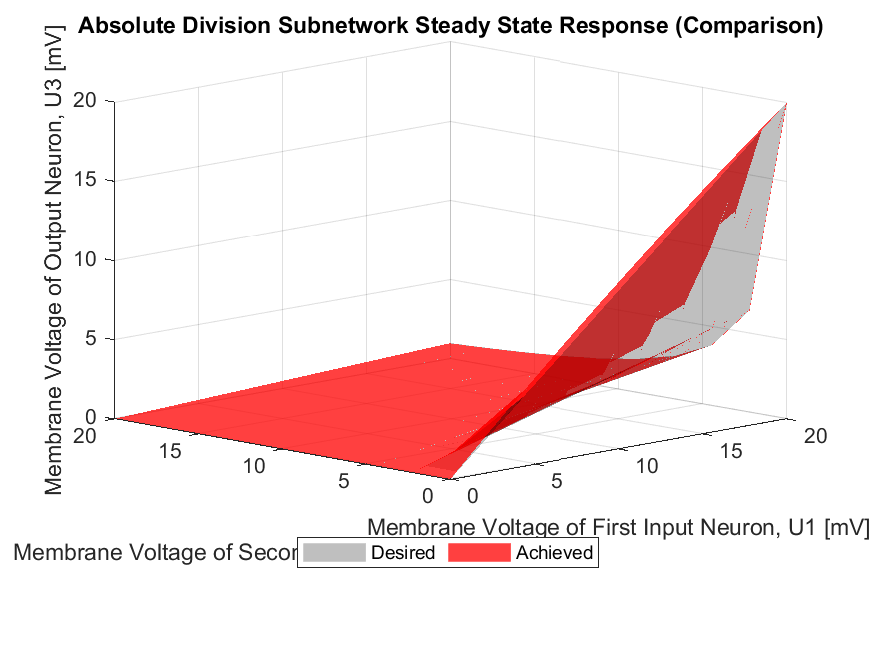
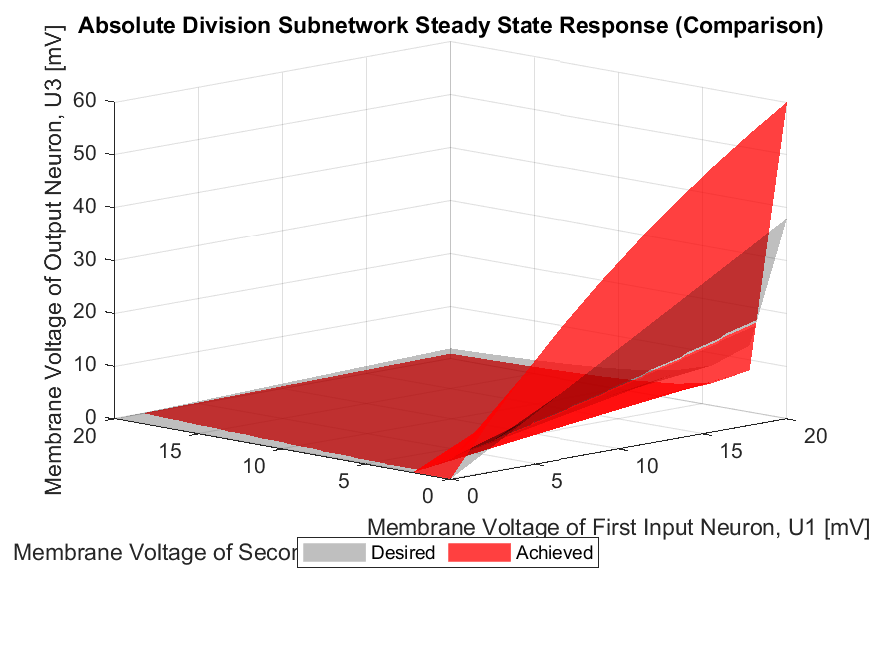
Division after inversion subnetwork error comparison.

diff --git a/Code/Matlab/Quadruped_Simulation_Framework/Main/Simulation/Software/Multistate_CPG_Phase_Alignment/Examples/division_after_inversion_subnetwork_error_comparison.m b/Code/Matlab/Quadruped_Simulation_Framework/Main/Simulation/Software/Multistate_CPG_Phase_Alignment/Examples/division_after_inversion_subnetwork_error_comparison.m
@@ -1,4 +1,4 @@
-%% Division Subnetwork Encoding Comparison
+%% Division After Inversion Subnetwork Encoding Comparison
 
 % Clear Everything.
 clear, close( 'all' ), clc
@@ -19,36 +19,22 @@ network_tf = 3;
 %% Create Absolute Division Subnetwork
 
 % Set the necessary parameters.
-% R1_absolute = 20e-3;            % [V] Activation Domain
-% R2_absolute = 20e-3;            % [V] Activation Domain
-% c1_absolute = 0.40e-9;          % [W] Absolute Division Parameter 1
-% c3_absolute = 0.40e-9;          % [W] Absolute Division Parameter 3
-% delta_absolute = 1e-3;          % [V] Modulated Output Membrane Voltage
-% dEs31_absolute = 194e-3;        % [V] Synaptic Reversal Potential
-
-% R1_absolute = 20e-3;                                         % [V] Activation Domain
-% R2_absolute = 20e-3;                                         % [V] Activation Domain
-% c1_absolute = 0.80e-9;                                       % [W] Absolute Division Parameter 1
-% c3_absolute = 0.40e-9;                                       % [W] Absolute Division Parameter 3
-% delta_absolute = 1e-3;                                       % [V] Modulated Output Membrane Voltage
-% dEs31_absolute = 194e-3;                                     % [V] Synaptic Reversal Potential
-
-R1_absolute = 20e-3;                                         % [V] Activation Domain
-R2_absolute = 20e-3;                                         % [V] Activation Domain
-c1_absolute = 1.20e-9;                                       % [W] Absolute Division Parameter 1
-c3_absolute = 0.40e-9;                                       % [W] Absolute Division Parameter 3
-delta_absolute = 1e-3;                                       % [V] Modulated Output Membrane Voltage
-dEs31_absolute = 194e-3;                                     % [V] Synaptic Reversal Potential
-
+R1_absolute = 20e-3;                               	% [V] Activation Domain
+R2_absolute = 20e-3;                                 % [V] Activation Domain
+c1_absolute = 0.76e-9;                               % [W] Division Parameter 1
+c3_absolute = 0.40e-9;                               % [W] Division Parameter 3
+delta1_absolute = 1e-3;                              % [V] Inversion Offset
+delta2_absolute = 2e-3;                              % [V] Division Offset
+dEs31_absolute = 194e-3;                             % [V] Synaptic Reversal Potential
 
 % Compute the network properties.
-R3_absolute = c1_absolute*R1_absolute/c3_absolute;                                                                                                                  % [V] Activation Domain
-c2_absolute = ( R1_absolute*c1_absolute - delta_absolute*c3_absolute )/( delta_absolute*R2_absolute );                                                              % [A] Absolute Division Parameter 2
-dEs32_absolute = 0;                                                                                                                                                 % [V] Synaptic Reversal Potential
-Iapp3_absolute = 0;                                                                                                                                                 % [A] Applied Current
-Gm3_absolute = c3_absolute/( R1_absolute*R2_absolute );                                                                                                             % [S] Membrane Conductance
-gs31_absolute = ( R3_absolute*Gm3_absolute - Iapp3_absolute )/( dEs31_absolute - R3_absolute );                                                                     % [S] Maximum Synaptic Conductance
-gs32_absolute = ( ( dEs31_absolute - delta_absolute )*gs31_absolute + Iapp3_absolute - delta_absolute*Gm3_absolute )/( delta_absolute - dEs32_absolute );           % [S] Maximum Synaptic Conductance
+R3_absolute = ( c1_absolute*R1_absolute*R2_absolute*delta2_absolute )/( c1_absolute*R1_absolute*delta1_absolute + c3_absolute*R2_absolute*delta2_absolute - c3_absolute*delta1_absolute*delta2_absolute );                % [V] Activation Domain
+c2_absolute = ( c1_absolute*R1_absolute - c3_absolute*delta2_absolute )/( delta2_absolute*R2_absolute );                                                   % [A] Division Parameter 2
+gs31_absolute = ( c1_absolute*c3_absolute )/( ( c3_absolute*dEs31_absolute - R1_absolute*c1_absolute )*R2_absolute );                                               % [S] Maximum Synaptic Conductance
+gs32_absolute = ( ( delta2_absolute*c3_absolute - R1_absolute*c1_absolute )*dEs31_absolute*c3_absolute )/( ( R1_absolute*c1_absolute - dEs31_absolute*c3_absolute )*R1_absolute*R2_absolute*delta2_absolute );            % [S] Maximum Synaptic Conductance
+dEs32_absolute = 0;                                                                                  % [V] Synaptic Reversal Potential
+Iapp3_absolute = 0;                                                                                  % [A] Applied Current
+Gm3_absolute = c3_absolute/( R1_absolute*R2_absolute );                                                                         % [S] Membrane Conductance
 
 % Print a summary of the relevant network parameters.
 fprintf( 'ABSOLUTE DIVISION SUBNETWORK PARAMETERS:\n' )
@@ -58,7 +44,8 @@ fprintf( 'R3 = %0.2f [mV]\n', R3_absolute*( 10^3 ) )
 fprintf( 'c1 = %0.2f [nW]\n', c1_absolute*( 10^9 ) )
 fprintf( 'c2 = %0.2f [nA]\n', c2_absolute*( 10^9 ) )
 fprintf( 'c3 = %0.2f [nW]\n', c3_absolute*( 10^9 ) )
-fprintf( 'delta = %0.2f [mV]\n', delta_absolute*( 10^3 ) )
+fprintf( 'delta1 = %0.2f [mV]\n', delta1_absolute*( 10^3 ) )
+fprintf( 'delta2 = %0.2f [mV]\n', delta2_absolute*( 10^3 ) )
 fprintf( 'dEs31 = %0.2f [mV]\n', dEs31_absolute*( 10^3 ) )
 fprintf( 'dEs32 = %0.2f [mV]\n', dEs32_absolute*( 10^3 ) )
 fprintf( 'gs31 = %0.2f [muS]\n', gs31_absolute*( 10^6 ) )
@@ -93,21 +80,22 @@ network_absolute.applied_current_manager = network_absolute.applied_current_mana
 %% Create Relative Division Subnetwork
 
 % Set the necesary parameters.
-R1_relative = 20e-3;                        % [V] Activation Domain
-R2_relative = 20e-3;                        % [V] Activation Domain
-R3_relative = 20e-3;                        % [V] Activation Domain
-c3_relative = 1e-6;                         % [W] Relative Division Parameter 3
-delta_relative = 1e-3;                      % [V] Modulated Output Membrane Voltage
-dEs31_relative = 194e-3;                    % [V] Synaptic Reversal Potential
+R1_relative = 20e-3;                                 % [V] Activation Domain
+R2_relative = 20e-3;                                 % [V] Activation Domain
+R3_relative = 20e-3;                                 % [V] Activation Domain
+c3_relative = 1e-6;                                  % [S] Division Parameter 3
+delta1_relative = 1e-3;                              % [V] Inversion Offset
+delta2_relative = 2e-3;                              % [V] division Offset
+dEs31_relative = 194e-3;                             % [V] Synaptic Reversal Potential
 
 % Compute the necessary parameters.
-c1_relative = c3_relative;                                                                                                                                          % [V] Relative Division Parameter 1
-c2_relative = ( R2_relative*c1_relative - delta_relative*c3_relative )/delta_relative;                                                                              % [V] Relative Division Parameter 2
-dEs32_relative = 0;                                                                                                                                                 % [V] Synaptic Reversal Potential
-Iapp3_relative = 0;                                                                                                                                                 % [A] Applied Current
-Gm3_relative = c3_relative;                                                                                                                                         % [S] Membrane Conductance
-gs31_relative = ( R3_relative*Gm3_relative - Iapp3_relative )/( dEs31_relative - R3_relative );                                                                     % [S] Maximum Synaptic Conductance
-gs32_relative = ( ( dEs31_relative - delta_relative )*gs31_relative + Iapp3_relative - delta_relative*Gm3_relative )/( delta_relative - dEs32_relative );           % [S] Maximum Synaptic Conductance
+c1_relative = ( ( delta1_relative - R2_relative )*delta2_relative*c3_relative )/( delta1_relative*R3_relative - delta2_relative*R2_relative );                                                                           % [S] Division Parameter 1
+c2_relative = ( ( R3_relative - delta2_relative )*R2_relative*c3_relative )/( R2_relative*delta2_relative - R3_relative*delta1_relative );                                                                               % [S] Division Parameter 2
+gs31_relative = ( ( c3_relative^2 )*delta1_relative*delta2_relative + ( c1_relative - c3_relative )*c3_relative*R2_relative*delta2_relative )/( -c3_relative*delta1_relative*delta2_relative + c3_relative*dEs31_relative*delta1_relative + ( c3_relative - c1_relative )*R2_relative*delta2_relative );           % [S] Maximum Synaptic Conductance
+gs32_relative = ( ( c1_relative - c3_relative )*c3_relative*R2_relative*dEs31_relative )/( -c3_relative*delta1_relative*delta2_relative + c3_relative*dEs31_relative*delta1_relative + ( c3_relative - c1_relative )*R2_relative*delta2_relative );                                     % [S] Maximum Synaptic Conductance
+dEs32_relative = 0;                                                                                                                              % [V] Synaptic Reversal Potential
+Iapp3_relative = 0;                                                                                                                              % [A] Applied Current
+Gm3_relative = c3_relative;                                                                                                                               % [S] Membrane Conductance
 
 % Print a summary of the relevant network parameters.
 fprintf( '\nRELATIVE DIVISION SUBNETWORK PARAMETERS:\n' )
@@ -117,7 +105,8 @@ fprintf( 'R3 = %0.2f [mV]\n', R3_relative*( 10^3 ) )
 fprintf( 'c1 = %0.2f [muS]\n', c1_relative*( 10^6 ) )
 fprintf( 'c2 = %0.2f [muS]\n', c2_relative*( 10^6 ) )
 fprintf( 'c3 = %0.2f [muS]\n', c3_relative*( 10^6 ) )
-fprintf( 'delta = %0.2f [mV]\n', delta_relative*( 10^3 ) )
+fprintf( 'delta1 = %0.2f [mV]\n', delta1_relative*( 10^3 ) )
+fprintf( 'delta2 = %0.2f [mV]\n', delta2_relative*( 10^3 ) )
 fprintf( 'dEs31 = %0.2f [mV]\n', dEs31_relative*( 10^3 ) )
 fprintf( 'dEs32 = %0.2f [mV]\n', dEs32_relative*( 10^3 ) )
 fprintf( 'gs31 = %0.2f [muS]\n', gs31_relative*( 10^6 ) )

diff --git a/Code/Matlab/Quadruped_Simulation_Framework/Main/Simulation/Software/Multistate_CPG_Phase_Alignment/Examples/absolute_division_after_inversion_subnetwork_error.m b/Code/Matlab/Quadruped_Simulation_Framework/Main/Simulation/Software/Multistate_CPG_Phase_Alignment/Examples/absolute_division_after_inversion_subnetwork_error.m
@@ -24,13 +24,21 @@ network_dt = 1e-4;
 network_tf = 3;
 
 % Set the necessary parameters.
-R1 = 20e-3;
-R2 = 20e-3;
-c1 = 0.40e-9;
-c3 = 0.40e-9;
-delta1 = 1e-3;
-delta2 = 1e-3;
-dEs31 = 194e-3;
+% R1 = 20e-3;                                 % [V] Activation Domain
+% R2 = 20e-3;                                 % [V] Activation Domain
+% c1 = 0.40e-9;                               % [W] Division Parameter 1
+% c3 = 0.40e-9;                               % [W] Division Parameter 3
+% delta1 = 1e-3;                              % [V] Inversion Offset
+% delta2 = 2e-3;                              % [V] Division Offset
+% dEs31 = 194e-3;                             % [V] Synaptic Reversal Potential
+
+R1 = 20e-3;                               	% [V] Activation Domain
+R2 = 20e-3;                                 % [V] Activation Domain
+c1 = 0.76e-9;                               % [W] Division Parameter 1
+c3 = 0.40e-9;                               % [W] Division Parameter 3
+delta1 = 1e-3;                              % [V] Inversion Offset
+delta2 = 2e-3;                              % [V] Division Offset
+dEs31 = 194e-3;                             % [V] Synaptic Reversal Potential
 
 % Set the number of division neurons.
 num_division_neurons = 3;
@@ -42,13 +50,13 @@ num_division_neurons = 3;
 network = network_class( network_dt, network_tf );
 
 % Compute the network properties.
-R3 = ( c1*R1*R2*delta2 )/( c1*R1*delta1 + c3*R2*delta2 - c3*delta1*delta2 );
-c2 = ( c1*R1 - c3*delta2 )/( delta2*R2 );
-gs31 = ( c1*c3 )/( ( c3*dEs31 - R1*c1 )*R2 );
-gs32 = ( ( delta2*c3 - R1*c1 )*dEs31*c3 )/( ( R1*c1 - dEs31*c3 )*R1*R2*delta2 );
-dEs32 = 0;
-Iapp3 = 0;
-Gm3 = c3/( R1*R2 );
+R3 = ( c1*R1*R2*delta2 )/( c1*R1*delta1 + c3*R2*delta2 - c3*delta1*delta2 );                % [V] Activation Domain
+c2 = ( c1*R1 - c3*delta2 )/( delta2*R2 );                                                   % [A] Division Parameter 2
+gs31 = ( c1*c3 )/( ( c3*dEs31 - R1*c1 )*R2 );                                               % [S] Maximum Synaptic Conductance
+gs32 = ( ( delta2*c3 - R1*c1 )*dEs31*c3 )/( ( R1*c1 - dEs31*c3 )*R1*R2*delta2 );            % [S] Maximum Synaptic Conductance
+dEs32 = 0;                                                                                  % [V] Synaptic Reversal Potential
+Iapp3 = 0;                                                                                  % [A] Applied Current
+Gm3 = c3/( R1*R2 );                                                                         % [S] Membrane Conductance
 
 % Create the network components.
 [ network.neuron_manager, neuron_IDs ] = network.neuron_manager.create_neurons( 3 );

diff --git a/Code/Matlab/Quadruped_Simulation_Framework/Main/Simulation/Software/Multistate_CPG_Phase_Alignment/Examples/relative_division_after_inversion_subnetwork_error.m b/Code/Matlab/Quadruped_Simulation_Framework/Main/Simulation/Software/Multistate_CPG_Phase_Alignment/Examples/relative_division_after_inversion_subnetwork_error.m
@@ -24,13 +24,13 @@ network_dt = 1e-4;
 network_tf = 3;
 
 % Set the necessary parameters.
-R1 = 20e-3;
-R2 = 20e-3;
-R3 = 20e-3;
-c3 = 1e-6;
-delta1 = 1e-3;
-delta2 = 2e-3;
-dEs31 = 194e-3;
+R1 = 20e-3;                                 % [V] Activation Domain
+R2 = 20e-3;                                 % [V] Activation Domain
+R3 = 20e-3;                                 % [V] Activation Domain
+c3 = 1e-6;                                  % [S] Division Parameter 3
+delta1 = 1e-3;                              % [V] Inversion Offset
+delta2 = 2e-3;                              % [V] division Offset
+dEs31 = 194e-3;                             % [V] Synaptic Reversal Potential
 
 % Set the number of division neurons.
 num_division_neurons = 3;
@@ -42,13 +42,13 @@ num_division_neurons = 3;
 network = network_class( network_dt, network_tf );
 
 % Compute the network properties.
-c1 = ( ( delta1 - R2 )*delta2*c3 )/( delta1*R3 - delta2*R2 );
-c2 = ( ( R3 - delta2 )*R2*c3 )/( R2*delta2 - R3*delta1 );
-gs31 = ( ( c3^2 )*delta1*delta2 + ( c1 - c3 )*c3*R2*delta2 )/( -c3*delta1*delta2 + c3*dEs31*delta1 + ( c3 - c1 )*R2*delta2 );
-gs32 = ( ( c1 - c3 )*c3*R2*dEs31 )/( -c3*delta1*delta2 + c3*dEs31*delta1 + ( c3 - c1 )*R2*delta2 );
-dEs32 = 0;
-Iapp3 = 0;
-Gm3 = c3;
+c1 = ( ( delta1 - R2 )*delta2*c3 )/( delta1*R3 - delta2*R2 );                                                                           % [S] Division Parameter 1
+c2 = ( ( R3 - delta2 )*R2*c3 )/( R2*delta2 - R3*delta1 );                                                                               % [S] Division Parameter 2
+gs31 = ( ( c3^2 )*delta1*delta2 + ( c1 - c3 )*c3*R2*delta2 )/( -c3*delta1*delta2 + c3*dEs31*delta1 + ( c3 - c1 )*R2*delta2 );           % [S] Maximum Synaptic Conductance
+gs32 = ( ( c1 - c3 )*c3*R2*dEs31 )/( -c3*delta1*delta2 + c3*dEs31*delta1 + ( c3 - c1 )*R2*delta2 );                                     % [S] Maximum Synaptic Conductance
+dEs32 = 0;                                                                                                                              % [V] Synaptic Reversal Potential
+Iapp3 = 0;                                                                                                                              % [A] Applied Current
+Gm3 = c3;                                                                                                                               % [S] Membrane Conductance
 
 % Create the network components.
 [ network.neuron_manager, neuron_IDs ] = network.neuron_manager.create_neurons( 3 );

diff --git a/Code/Matlab/Quadruped_Simulation_Framework/Main/Simulation/Software/Multistate_CPG_Phase_Alignment/Examples/absolute_division_after_inversion_subnetwork_example.m b/Code/Matlab/Quadruped_Simulation_Framework/Main/Simulation/Software/Multistate_CPG_Phase_Alignment/Examples/absolute_division_after_inversion_subnetwork_example.m
@@ -16,16 +16,28 @@ network_dt = 1e-4;
 network_tf = 3;
 
 % Set the necessary parameters.
+% R1 = 20e-3;
+% R2 = 20e-3;
+% c1 = 0.40e-9;
+% c3 = 0.40e-9;
+% delta1 = 1e-3;
+% delta2 = 1e-3;
+% dEs31 = 194e-3;
+
+% R1 = 20e-3;
+% R2 = 20e-3;
+% c1 = 0.40e-9;
+% c3 = 0.40e-9;
+% delta1 = 1e-3;
+% delta2 = 2e-3;
+% dEs31 = 194e-3;
+
 R1 = 20e-3;
 R2 = 20e-3;
-c1 = 0.40e-9;
+c1 = 0.76e-9;
 c3 = 0.40e-9;
-% c3 = 0.60e-9;
-% c3 = 0.10e-9;
-% c1 = 1e-6;
-% c3 = 1e-6;
 delta1 = 1e-3;
-delta2 = 1e-3;
+delta2 = 2e-3;
 dEs31 = 194e-3;
 
 
@@ -60,9 +72,9 @@ network.synapse_manager = network.synapse_manager.set_synapse_property( synapse_
 
 network.applied_current_manager = network.applied_current_manager.set_applied_current_property( applied_current_IDs, [ 1, 2, 3 ], 'neuron_ID' );
 
-% network.applied_current_manager = network.applied_current_manager.set_applied_current_property( applied_current_IDs( 1 ), 0*network.neuron_manager.neurons( 1 ).R*network.neuron_manager.neurons( 1 ).Gm, 'I_apps' );
+network.applied_current_manager = network.applied_current_manager.set_applied_current_property( applied_current_IDs( 1 ), 0*network.neuron_manager.neurons( 1 ).R*network.neuron_manager.neurons( 1 ).Gm, 'I_apps' );
 % network.applied_current_manager = network.applied_current_manager.set_applied_current_property( applied_current_IDs( 1 ), 0.25*network.neuron_manager.neurons( 1 ).R*network.neuron_manager.neurons( 1 ).Gm, 'I_apps' );
-network.applied_current_manager = network.applied_current_manager.set_applied_current_property( applied_current_IDs( 1 ), 1*network.neuron_manager.neurons( 1 ).R*network.neuron_manager.neurons( 1 ).Gm, 'I_apps' );
+% network.applied_current_manager = network.applied_current_manager.set_applied_current_property( applied_current_IDs( 1 ), 1*network.neuron_manager.neurons( 1 ).R*network.neuron_manager.neurons( 1 ).Gm, 'I_apps' );
 
 % network.applied_current_manager = network.applied_current_manager.set_applied_current_property( applied_current_IDs( 2 ), 0*network.neuron_manager.neurons( 2 ).R*network.neuron_manager.neurons( 2 ).Gm, 'I_apps' );
 network.applied_current_manager = network.applied_current_manager.set_applied_current_property( applied_current_IDs( 2 ), delta1*network.neuron_manager.neurons( 2 ).R*network.neuron_manager.neurons( 2 ).Gm, 'I_apps' );

diff --git a/Code/Matlab/Quadruped_Simulation_Framework/Main/Simulation/Software/Multistate_CPG_Phase_Alignment/Examples/absolute_division_subnetwork_error.m b/Code/Matlab/Quadruped_Simulation_Framework/Main/Simulation/Software/Multistate_CPG_Phase_Alignment/Examples/absolute_division_subnetwork_error.m
@@ -31,19 +31,25 @@ network_tf = 3;
 % delta = 1e-3;                                       % [V] Modulated Output Membrane Voltage
 % dEs31 = 194e-3;                                     % [V] Synaptic Reversal Potential
 
+% R1 = 20e-3;                                         % [V] Activation Domain
+% R2 = 20e-3;                                         % [V] Activation Domain
+% c1 = 0.80e-9;                                       % [W] Absolute Division Parameter 1
+% c3 = 0.40e-9;                                       % [W] Absolute Division Parameter 3
+% delta = 1e-3;                                       % [V] Modulated Output Membrane Voltage
+% dEs31 = 194e-3;                                     % [V] Synaptic Reversal Potential
+
 R1 = 20e-3;                                         % [V] Activation Domain
 R2 = 20e-3;                                         % [V] Activation Domain
-c1 = 0.80e-9;                                       % [W] Absolute Division Parameter 1
+c1 = 1.20e-9;                                       % [W] Absolute Division Parameter 1
 c3 = 0.40e-9;                                       % [W] Absolute Division Parameter 3
 delta = 1e-3;                                       % [V] Modulated Output Membrane Voltage
 dEs31 = 194e-3;                                     % [V] Synaptic Reversal Potential
-
 
 % Set the number of division neurons.
 num_division_neurons = 3;
 
 
-%% Create Absolute Subtraction Subnetwork.
+%% Create Absolute Division Subnetwork.
 
 % Create an instance of the network class.
 network = network_class( network_dt, network_tf );

diff --git a/Code/Matlab/Quadruped_Simulation_Framework/Main/Simulation/Software/Multistate_CPG_Phase_Alignment/Examples/absolute_inversion_subnetwork_error.m b/Code/Matlab/Quadruped_Simulation_Framework/Main/Simulation/Software/Multistate_CPG_Phase_Alignment/Examples/absolute_inversion_subnetwork_error.m
@@ -27,17 +27,10 @@ network_tf = 3;
 num_neurons = 2;
 
 % Set the subnetwork parameters.
-<<<<<<< Updated upstream
-R1 = 20e-3;
-c1 = 0.40e-9;
-c3 = 20e-9;
-delta = 1e-3;
-=======
 R1 = 20e-3;                                 % [V] Activation Domain
 c1 = 0.40e-9;                               % [W] Absolute Inversion Parameter 1
 c3 = 20e-9;                                 % [A] Absolute Inversion Parameter 3
 delta = 1e-3;                               % [V] Minimum Output Membrane Voltage
->>>>>>> Stashed changes
 
 % R1 = 20e-3;
 % c1 = 0.80e-9;
@@ -53,17 +46,6 @@ delta = 1e-3;                               % [V] Minimum Output Membrane Voltag
 %% Create Absolute Subtraction Subnetwork.
 
 % Compute the network properties.
-<<<<<<< Updated upstream
-R2 = c1/c3;
-c2 = ( c1 - delta*c3 )/( delta*R1 );
-dEs21 = 0;
-Gm2 = c3/R1;
-Iapp2 = c1/R1;
-gs21 = ( c1 - delta*c3 )/( delta*R1 );
-
-% Print a summary of the relevant network parameters.
-fprintf( 'NETWORK PARAMETERS:\n' )
-=======
 R2 = c1/c3;                                 % [V] Activation Domain
 c2 = ( c1 - delta*c3 )/( delta*R1 );        % [muS] Absolute Inversion Parameter 2
 dEs21 = 0;                                  % [V] Synaptic Reversal Potential
@@ -73,7 +55,6 @@ gs21 = ( c1 - delta*c3 )/( delta*R1 );      % [S] Maximum Synaptic Conductance
 
 % Print a summary of the relevant network parameters.
 fprintf( 'ABSOLUTE INVERSION SUBNETWORK PARAMETERS:\n' )
->>>>>>> Stashed changes
 fprintf( 'R1 = %0.2f [mV]\n', R1*( 10^3 ) )
 fprintf( 'R2 = %0.2f [mV]\n', R2*( 10^3 ) )
 fprintf( 'c1 = %0.2f [nW]\n', c1*( 10^9 ) )

diff --git a/Code/Matlab/Quadruped_Simulation_Framework/Main/Simulation/Software/Multistate_CPG_Phase_Alignment/Examples/relative_division_subnetwork_error.m b/Code/Matlab/Quadruped_Simulation_Framework/Main/Simulation/Software/Multistate_CPG_Phase_Alignment/Examples/relative_division_subnetwork_error.m
@@ -35,7 +35,7 @@ dEs31 = 194e-3;                                         % [V] Synaptic Reversal 
 num_division_neurons = 3;
 
 
-%% Create Absolute Subtraction Subnetwork.
+%% Create Absolute Division Subnetwork.
 
 % Create an instance of the network class.
 network = network_class( network_dt, network_tf );
@@ -94,8 +94,8 @@ if b_simulate               % If we want to simulate the network....
     n_applied_currents2 = 10;
     
     % Create the applied currents.
-    applied_currents1 = linspace( 0, 20e-9, n_applied_currents1 );
-    applied_currents2 = linspace( 0, 20e-9, n_applied_currents2 );
+    applied_currents1 = linspace( 0, network.neuron_manager.neurons( 1 ).R*network.neuron_manager.neurons( 1 ).Gm, n_applied_currents1 );
+    applied_currents2 = linspace( 0, network.neuron_manager.neurons( 2 ).R*network.neuron_manager.neurons( 2 ).Gm, n_applied_currents2 );
     
     % Create a grid of the applied currents.
     [ Applied_Currents1, Applied_Currents2 ] = meshgrid( applied_currents1, applied_currents2 );
